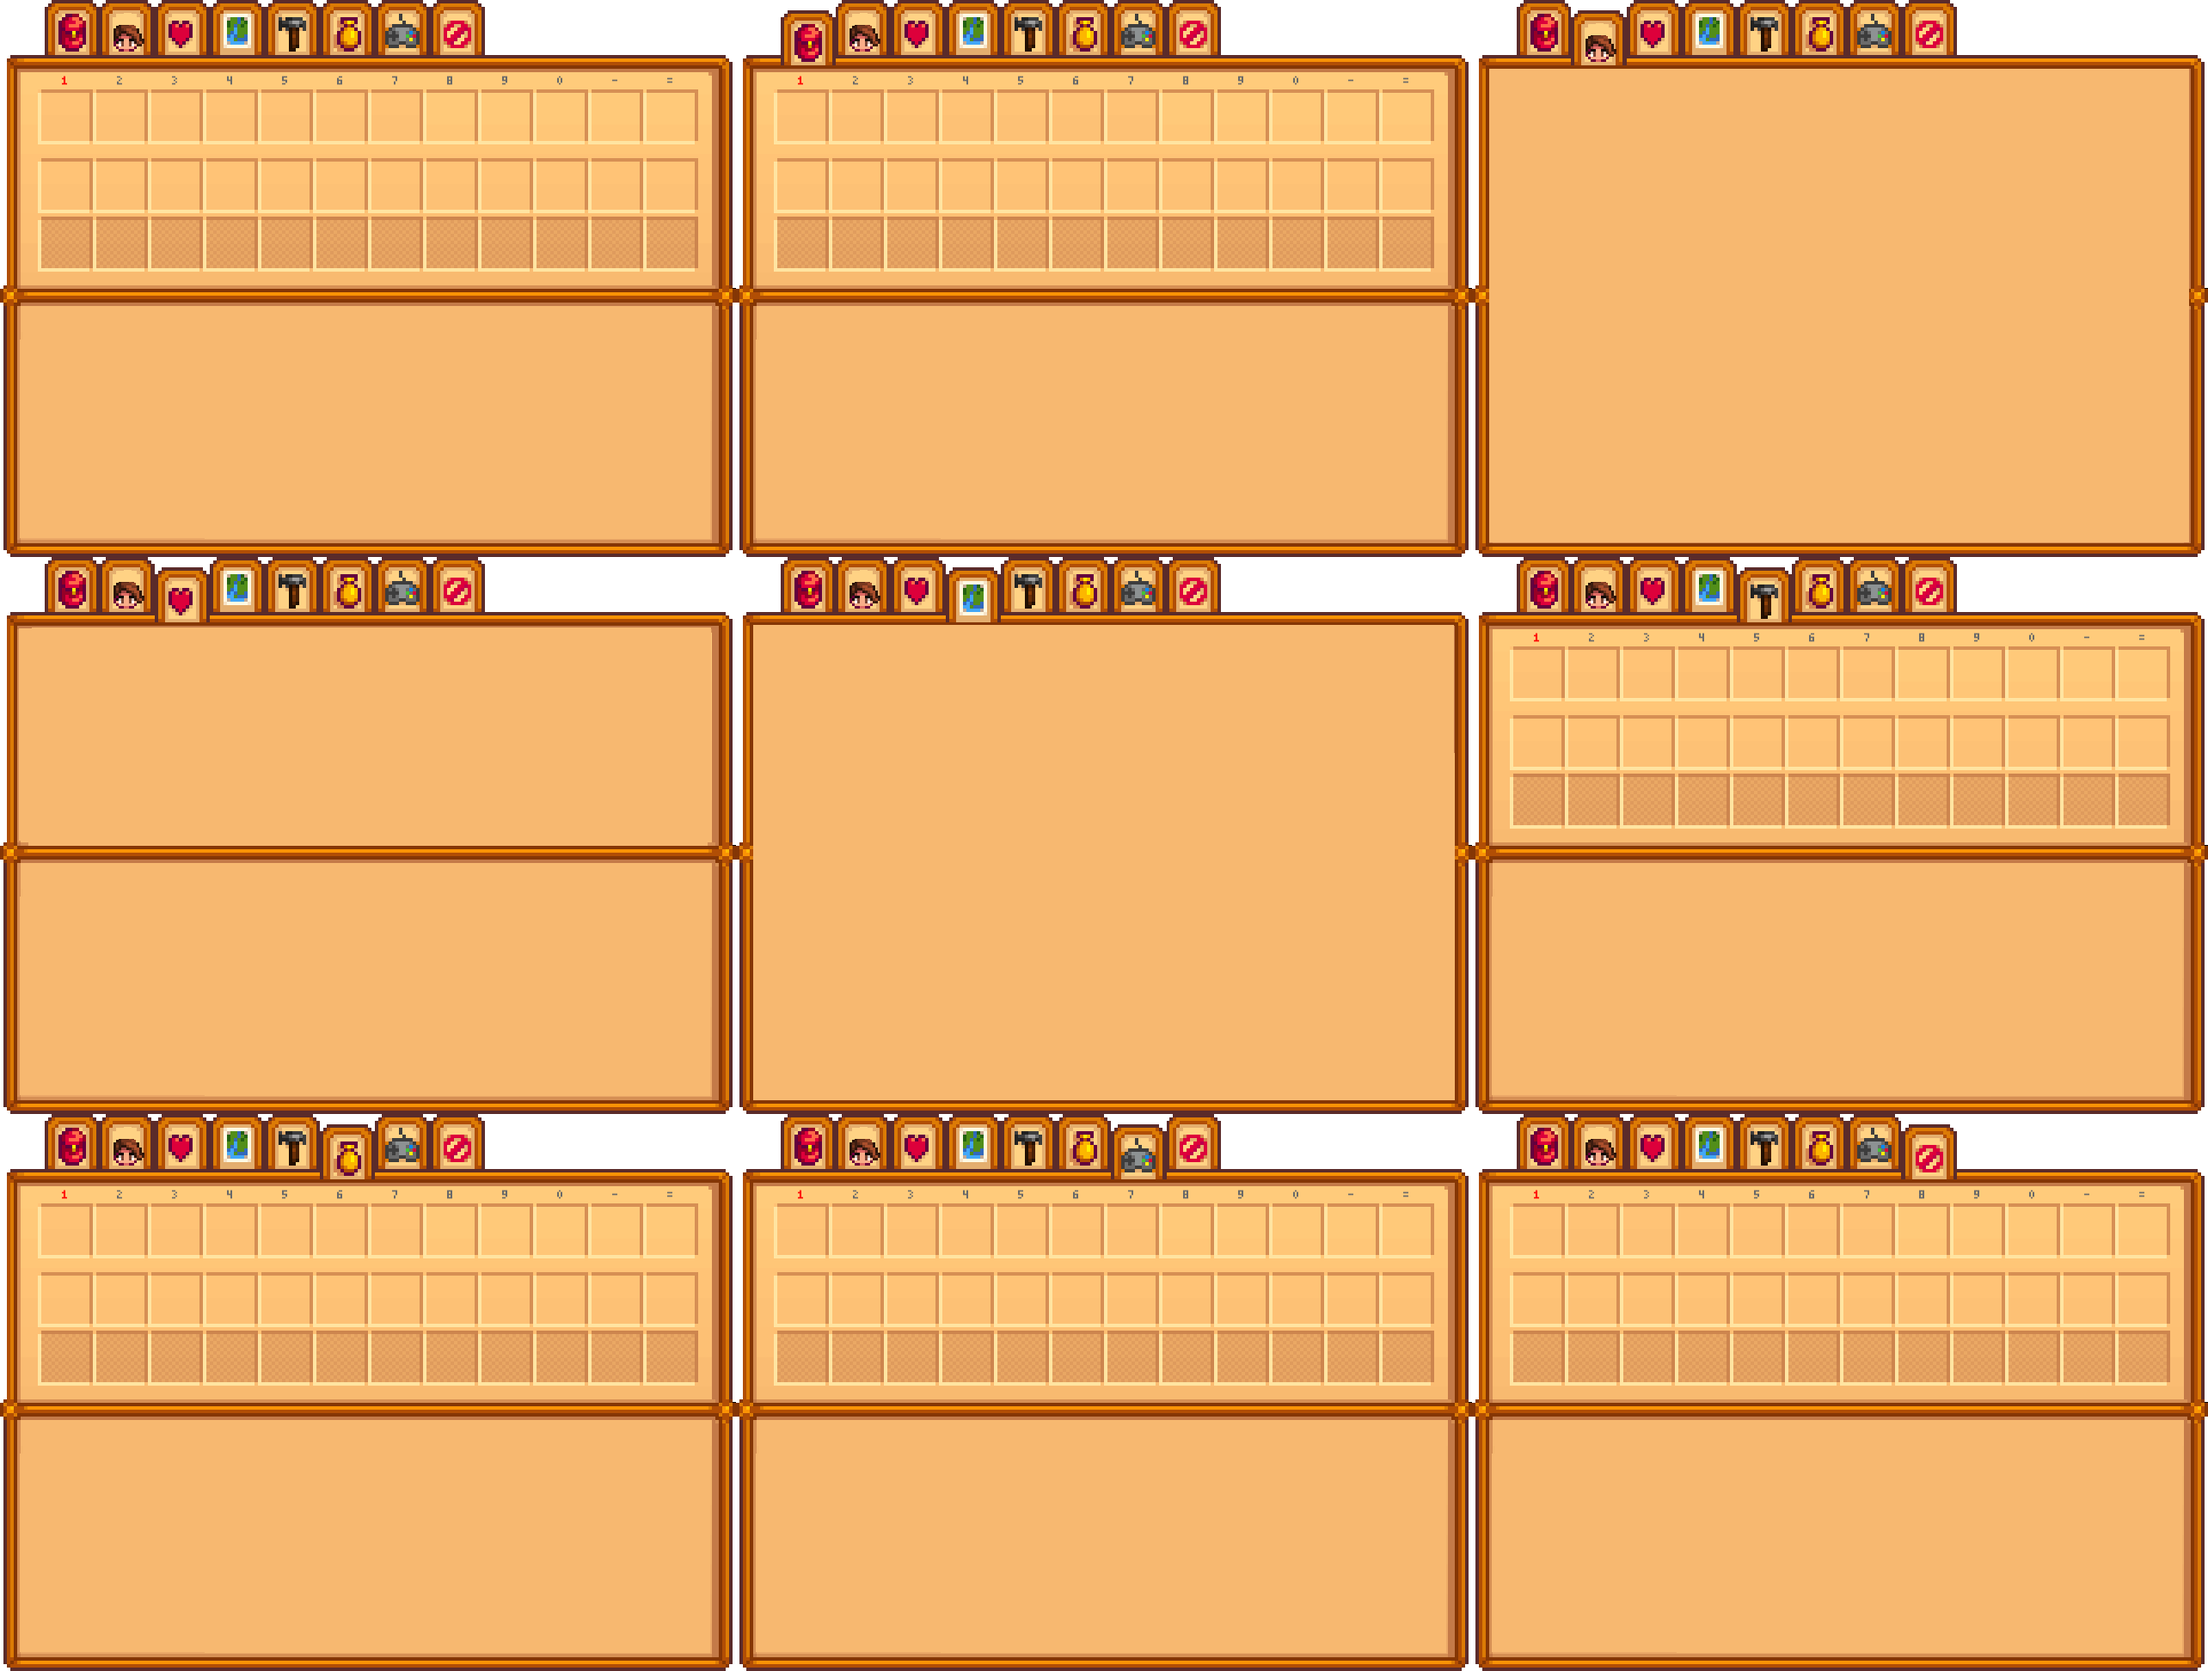
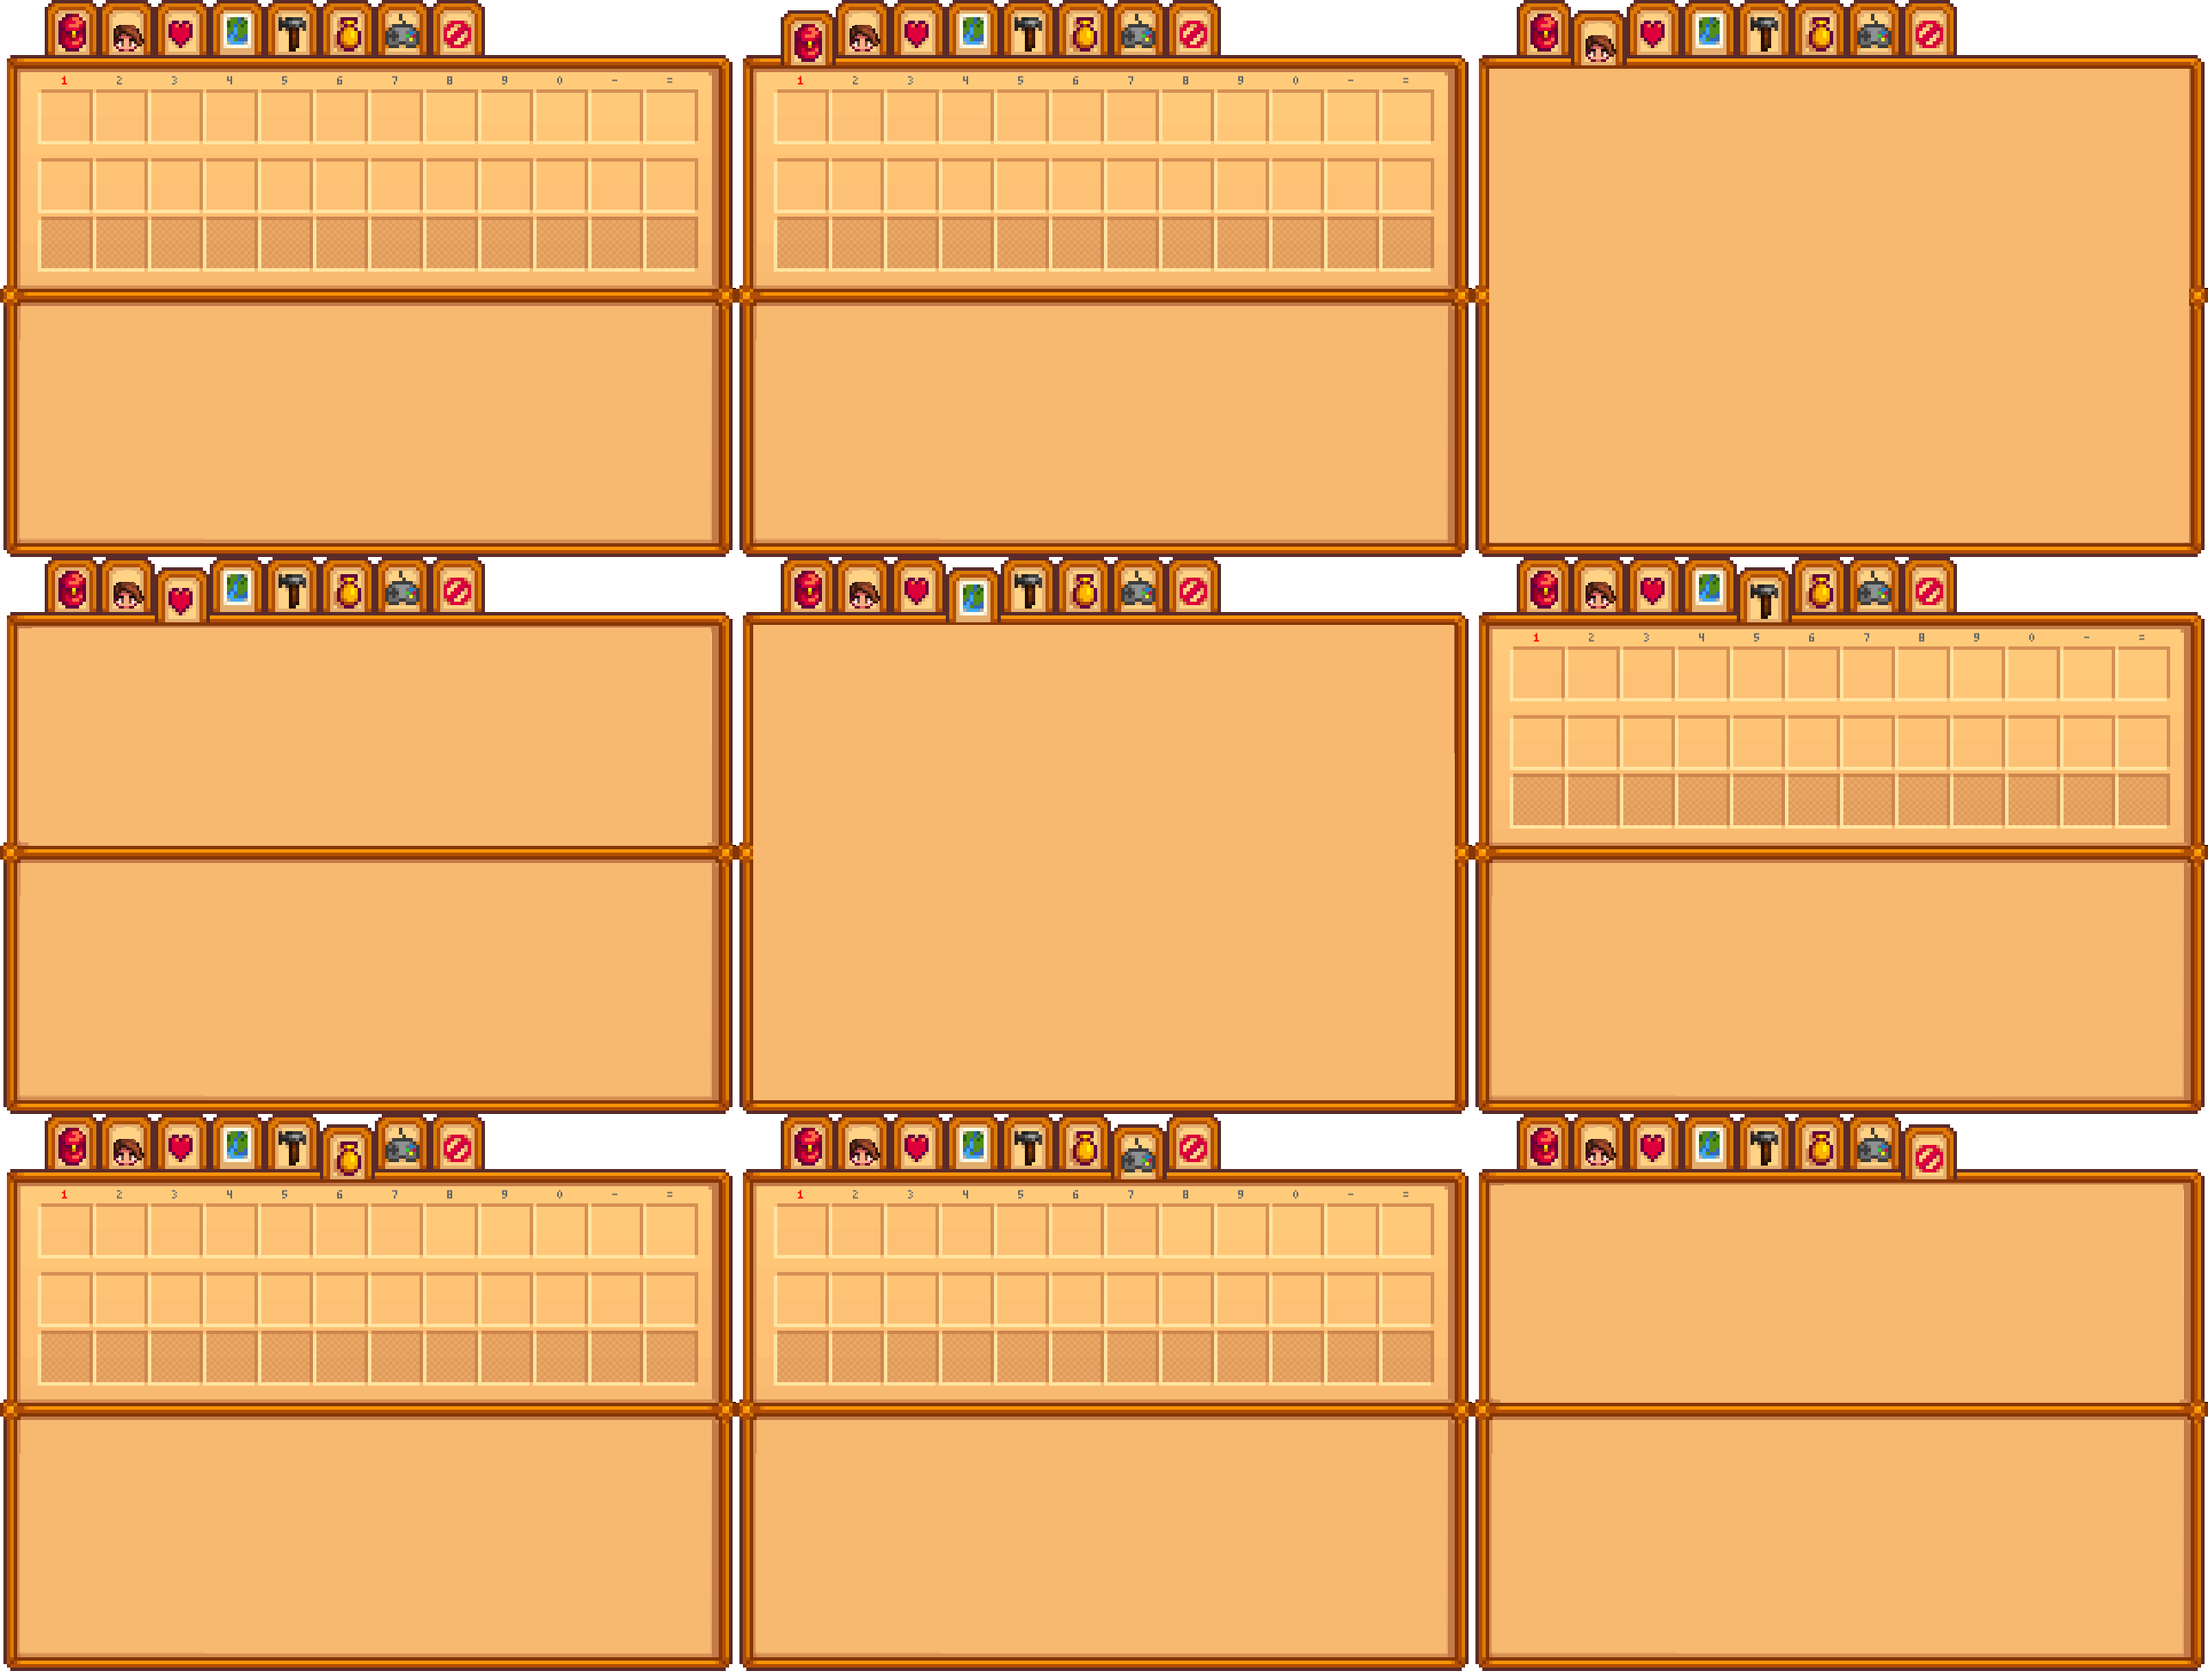
Vote Menu in Inventory

Changed region(s): [[0.6854, 0.7099, 0.9969, 0.8333]]

diff --git a/core/src/main/java/com/CEliconValley/client/view/screen/MenuBar.java b/core/src/main/java/com/CEliconValley/client/view/screen/MenuBar.java
@@ -13,6 +13,8 @@ import com.CEliconValley.models.items.*;
 import com.CEliconValley.models.tools.Tool;
 import com.CEliconValley.models.ui.GameAssetManager;
 import com.badlogic.gdx.Gdx;
+import com.badlogic.gdx.graphics.Camera;
+import com.badlogic.gdx.graphics.Color;
 import com.badlogic.gdx.graphics.Texture;
 import com.badlogic.gdx.graphics.g2d.Batch;
 import com.badlogic.gdx.graphics.g2d.BitmapFont;
@@ -20,16 +22,26 @@ import com.badlogic.gdx.graphics.g2d.GlyphLayout;
 import com.badlogic.gdx.graphics.g2d.TextureRegion;
 import com.badlogic.gdx.graphics.OrthographicCamera;
 import com.badlogic.gdx.graphics.glutils.ShapeRenderer;
+import com.badlogic.gdx.math.Rectangle;
 import com.badlogic.gdx.math.Vector3;
+import com.badlogic.gdx.scenes.scene2d.InputEvent;
+import com.badlogic.gdx.scenes.scene2d.ui.ButtonGroup;
 import com.badlogic.gdx.scenes.scene2d.ui.Image;
+import com.badlogic.gdx.scenes.scene2d.ui.Table;
+import com.badlogic.gdx.scenes.scene2d.ui.TextButton;
+import com.badlogic.gdx.scenes.scene2d.utils.ClickListener;
 import com.google.gson.Gson;
+import org.jetbrains.annotations.NotNull;
 
+import java.util.ArrayList;
+import java.util.List;
 import java.util.Map;
 import java.util.Objects;
 
 public class MenuBar {
     private final Texture menuTexture;
     private final Texture miniMapTexture;
+    private final Texture characterTexture;
     private final TextureRegion[] tabTextures;
     private final int tileWidth;
     private final int tileHeight;
@@ -42,16 +54,25 @@ public class MenuBar {
     private String currentTab;
     private OrthographicCamera camera;
 
+    private Table cheatsTable;
+    private final ButtonGroup<TextButton> playerButtonGroup = new ButtonGroup<>();
+
+    private Rectangle[] playerButtons = new Rectangle[4];
+    private Rectangle saveButton = new Rectangle();
+    private Rectangle terminateButton = new Rectangle();
+    private int selectedIndex = -1;
+
     private final String[] tabOrder = {
         "Inventory", "Stats", "Relation",
         "Map", "Crafting", "Artisan",
-        "Controll", "Cheat", null
+        "Control", "Vote", null
     };
 
     public MenuBar() {
 
         menuTexture = new Texture("game/Buildings/Screen/Menu_Screen.png");
         miniMapTexture = new Texture("game/Buildings/Screen/map.png");
+        characterTexture = new Texture("game/Buildings/Screen/character.png");
 
         tileWidth = menuTexture.getWidth() / 3;
         tileHeight = menuTexture.getHeight() / 3;
@@ -99,9 +120,11 @@ public class MenuBar {
             case "Inventory":
             case "Crafting":
             case "Artisan":
-            case "Controll":
-            case "Cheat":
+            case "Control":
                 renderInventoryBar(batch, camera, inventory);
+                break;
+            case "Vote":
+                renderVote(batch);
                 break;
             case "Stats":
                 renderStats(batch);
@@ -230,7 +253,7 @@ public class MenuBar {
     }
 
 
-    private void renderStats(Batch batch) {
+    private void renderStats(@NotNull Batch batch) {
         Texture farmingIcon = GameAssetManager.getGameAssetManager().getSkillTexture("Farming_Skill_Icon.png");
         Texture fishingIcon = GameAssetManager.getGameAssetManager().getSkillTexture("Fishing_Skill_Icon.png");
         Texture foragingIcon = GameAssetManager.getGameAssetManager().getSkillTexture("Foraging_Skill_Icon.png");
@@ -341,8 +364,20 @@ public class MenuBar {
     }
 
     private void renderMap(Batch batch) {
-        batch.draw(miniMapTexture, startingX, startingY, menuTexture.getWidth() / 3f, menuTexture.getHeight() / 3f);
-
+        float screenWidth = camera.viewportWidth;
+        float screenHeight = camera.viewportHeight;
+        batch.draw(miniMapTexture, startingX + screenWidth / 80f, startingY + screenHeight / 60f, menuTexture.getWidth() / 2.32f, menuTexture.getHeight() / 3f);
+        int farmId = Finder.getpd().getFarmId();
+        float characterX = startingX + player.getX() * screenWidth / 240f, characterY = startingY + player.getY() * screenHeight / 240f;
+        if(farmId == 1){
+            characterX += screenWidth / 2;
+        } else if(farmId == 0){
+            characterY += screenHeight / 2;
+        } else if(farmId == 3){
+            characterX += screenWidth / 2;
+            characterY += screenHeight / 2;
+        }
+        batch.draw(characterTexture, characterX, characterY, characterTexture.getWidth(), characterTexture.getHeight());
     }
 
     private void renderCrafting(Batch batch) {
@@ -408,6 +443,140 @@ public class MenuBar {
             currentX += width * 2.3f;
         }
 
+    }
+
+    private void renderVote(@NotNull Batch batch) {
+        Texture nameTexture = GameAssetManager.getGameAssetManager().getBackgroundTexture("Player Name Background.png");
+        Texture buttonTexture = GameAssetManager.getGameAssetManager().getBackgroundTexture("AvatarBackground2.png");
+
+        float screenWidth = camera.viewportWidth;
+        float screenHeight = camera.viewportHeight;
+
+        float x = startingX + screenWidth * 0.025f;
+        float y = startingY + screenHeight * 0.2f;
+
+        float spacing = screenWidth * 0.14f;
+        float playerSize = screenHeight * 0.08f;
+
+        Vector3 mousePos = new Vector3(Gdx.input.getX(), Gdx.input.getY(), 0);
+        camera.unproject(mousePos);
+
+        String currentName = AppClient.getUserData().getUsername();
+        List<PlayerData> players = AppClient.getGameData().getPlayersData();
+
+        for (PlayerData playerData : players) {
+            String name = playerData.getUsername();
+
+            float playerX = x;
+            float playerY = y - playerSize + 5;
+
+            batch.draw(nameTexture, playerX, playerY, playerSize * 3, playerSize);
+
+            font.getData().setScale(2f);
+            font.draw(batch, name, playerX + playerSize * 1.5f - name.length() * font.getScaleX() * 7.5f / 2f, playerY + playerSize / 1.5f);
+
+            boolean hovered = mousePos.x >= playerX && mousePos.x <= playerX + playerSize * 3f &&
+                mousePos.y >= playerY && mousePos.y <= playerY + playerSize;
+
+            boolean clicked = false;
+
+            if (hovered) {
+                if(Gdx.input.isKeyJustPressed(0)){
+                    clicked = true;
+                }
+                String warnText = "Vote " + name;
+                if (name.equals(currentName)) {
+                    warnText = "Voting Yourself?!!";
+                }
+                GlyphLayout tooltipLayout = new GlyphLayout(font, warnText);
+
+                float tooltipWidth = tooltipLayout.width + 40;
+                float tooltipHeight = tooltipLayout.height + 30;
+
+                float tooltipX = playerX + playerSize * 1.5f - tooltipWidth / 2f;
+                float tooltipY = playerY + playerSize + 20;
+
+                batch.end();
+                shapeRenderer.setProjectionMatrix(camera.combined);
+                shapeRenderer.begin(ShapeRenderer.ShapeType.Filled);
+                shapeRenderer.setColor(0, 0, 0, 0.85f);
+                shapeRenderer.rect(tooltipX, tooltipY, tooltipWidth, tooltipHeight);
+                shapeRenderer.end();
+                batch.begin();
+
+                font.setColor(Color.RED);
+
+                font.draw(batch, warnText, tooltipX + 20, tooltipY + tooltipHeight - 15);
+
+                font.setColor(Color.WHITE);
+            }
+            if(clicked){
+                //TODO Sepehr Kick Vote
+            }
+
+            x += spacing;
+        }
+        x = startingX + screenWidth * 0.025f;
+        for (int i = 0; i < 2; i++) {
+            String text = "Force Terminate";
+            if(i == 1){ // TODO If CurrentName Only Admin! if not, break; in "if"
+                text = "Save Game";
+            }
+
+            float playerX = x;
+            float playerY = y - playerSize + 5 + screenHeight * 0.3f;
+
+            batch.draw(buttonTexture, playerX, playerY, playerSize * 4, playerSize);
+
+            font.getData().setScale(2f);
+            font.draw(batch, text, playerX + playerSize * 2f - text.length() * font.getScaleX() * 7.5f / 2f, playerY + playerSize / 1.5f);
+
+            boolean hovered = mousePos.x >= playerX && mousePos.x <= playerX + playerSize * 4f &&
+                mousePos.y >= playerY && mousePos.y <= playerY + playerSize;
+
+            boolean clicked = false;
+
+            if(hovered && Gdx.input.isKeyJustPressed(0)){
+                clicked = true;
+            }
+            if (hovered && i == 0) {
+
+                String warnText = "Vote For Force Terminate";
+
+                GlyphLayout tooltipLayout = new GlyphLayout(font, warnText);
+
+                float tooltipWidth = tooltipLayout.width + 40;
+                float tooltipHeight = tooltipLayout.height + 30;
+
+                float tooltipX = playerX + playerSize * 2f - tooltipWidth / 2f;
+                float tooltipY = playerY + playerSize + 20;
+
+                batch.end();
+                shapeRenderer.setProjectionMatrix(camera.combined);
+                shapeRenderer.begin(ShapeRenderer.ShapeType.Filled);
+                shapeRenderer.setColor(0, 0, 0, 0.85f);
+                shapeRenderer.rect(tooltipX, tooltipY, tooltipWidth, tooltipHeight);
+                shapeRenderer.end();
+                batch.begin();
+
+                font.setColor(Color.RED);
+
+                font.draw(batch, warnText, tooltipX + 20, tooltipY + tooltipHeight - 15);
+
+                font.setColor(Color.WHITE);
+            }
+            if(clicked){
+                if(i == 0){
+                    //TODO Sepehr: Save
+                } else{
+                    //TODO Sepehr: Force Terminate
+                }
+            }
+
+            x += spacing * 2.5f;
+        }
+
+        font.getData().setScale(1f);
     }
 
     private boolean hasAllItems(CraftingRecipe recipe) {

diff --git a/core/src/main/java/com/CEliconValley/client/view/MainMenuView.java b/core/src/main/java/com/CEliconValley/client/view/MainMenuView.java
@@ -287,6 +287,12 @@ public class MainMenuView implements Screen {
                 Graphics.DisplayMode displayMode = Gdx.graphics.getDisplayMode();
                 Gdx.graphics.setFullscreenMode(displayMode);
             }
+        } else if(Gdx.input.isKeyJustPressed(Input.Keys.ENTER)) {
+            if(joinLobby) {
+                controller.handleJoinLobby();
+            } else if(!mainTable.isVisible()) {
+                controller.handleNewLobby();
+            }
         }
 
         ScreenUtils.clear(0, 0, 0, 0);
